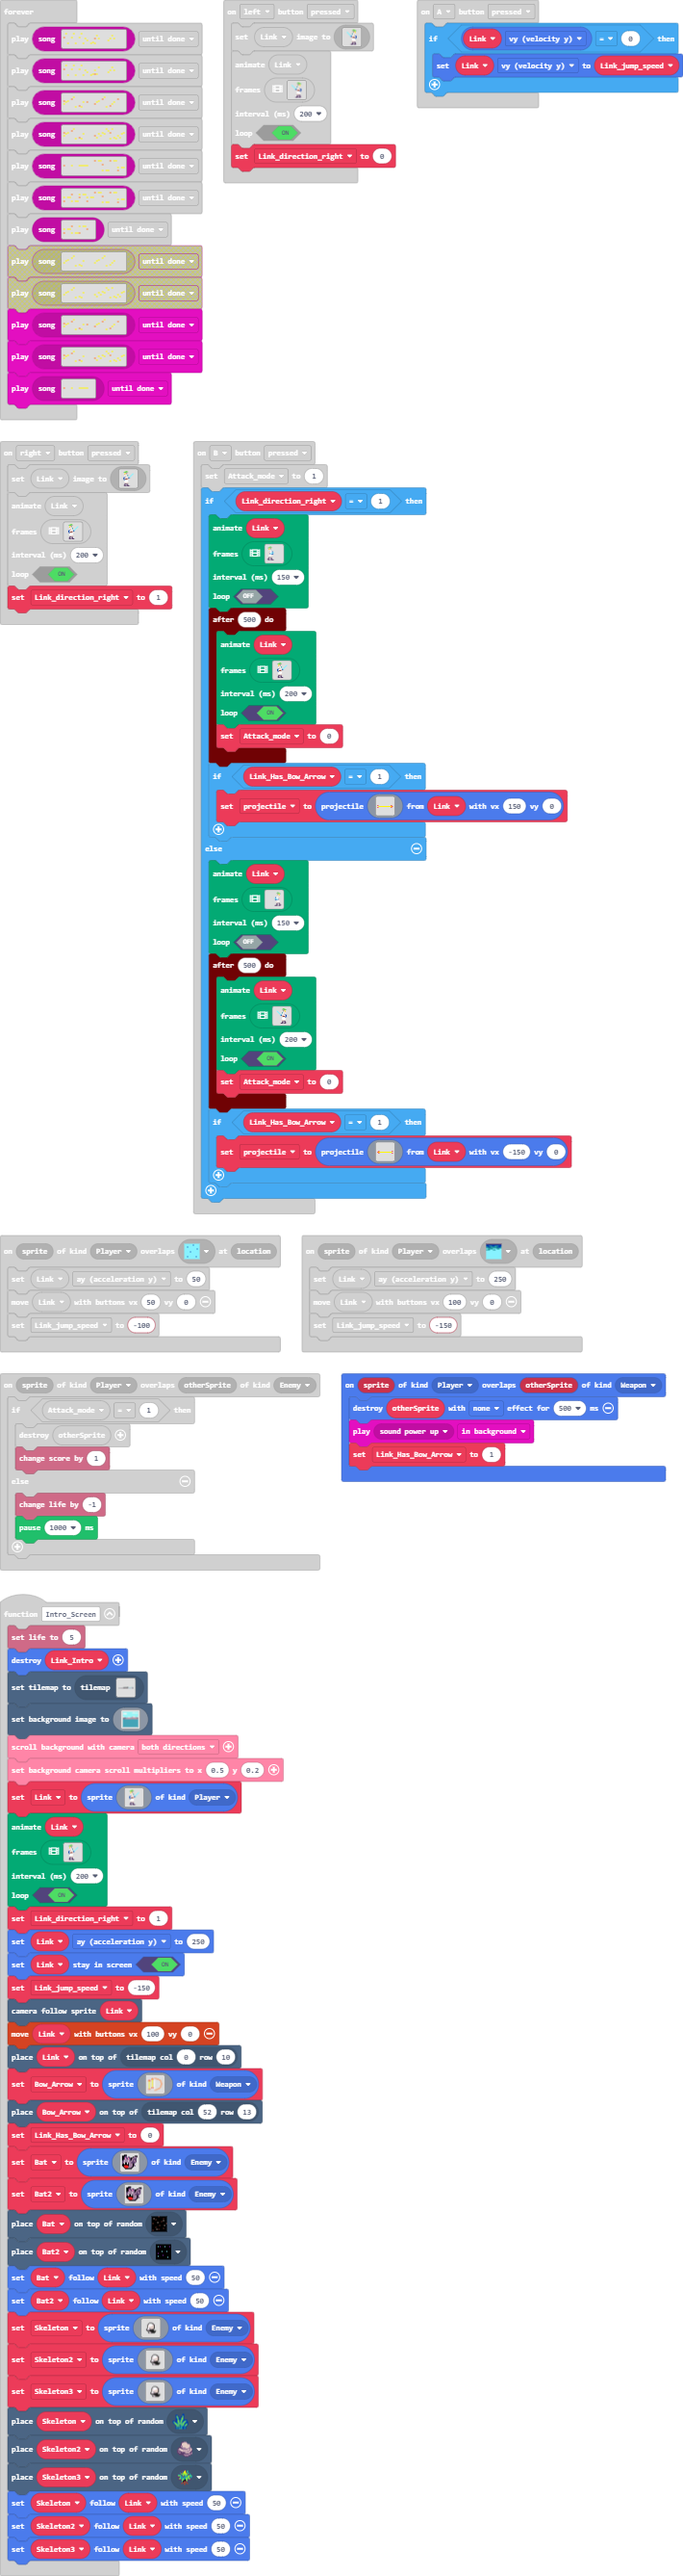
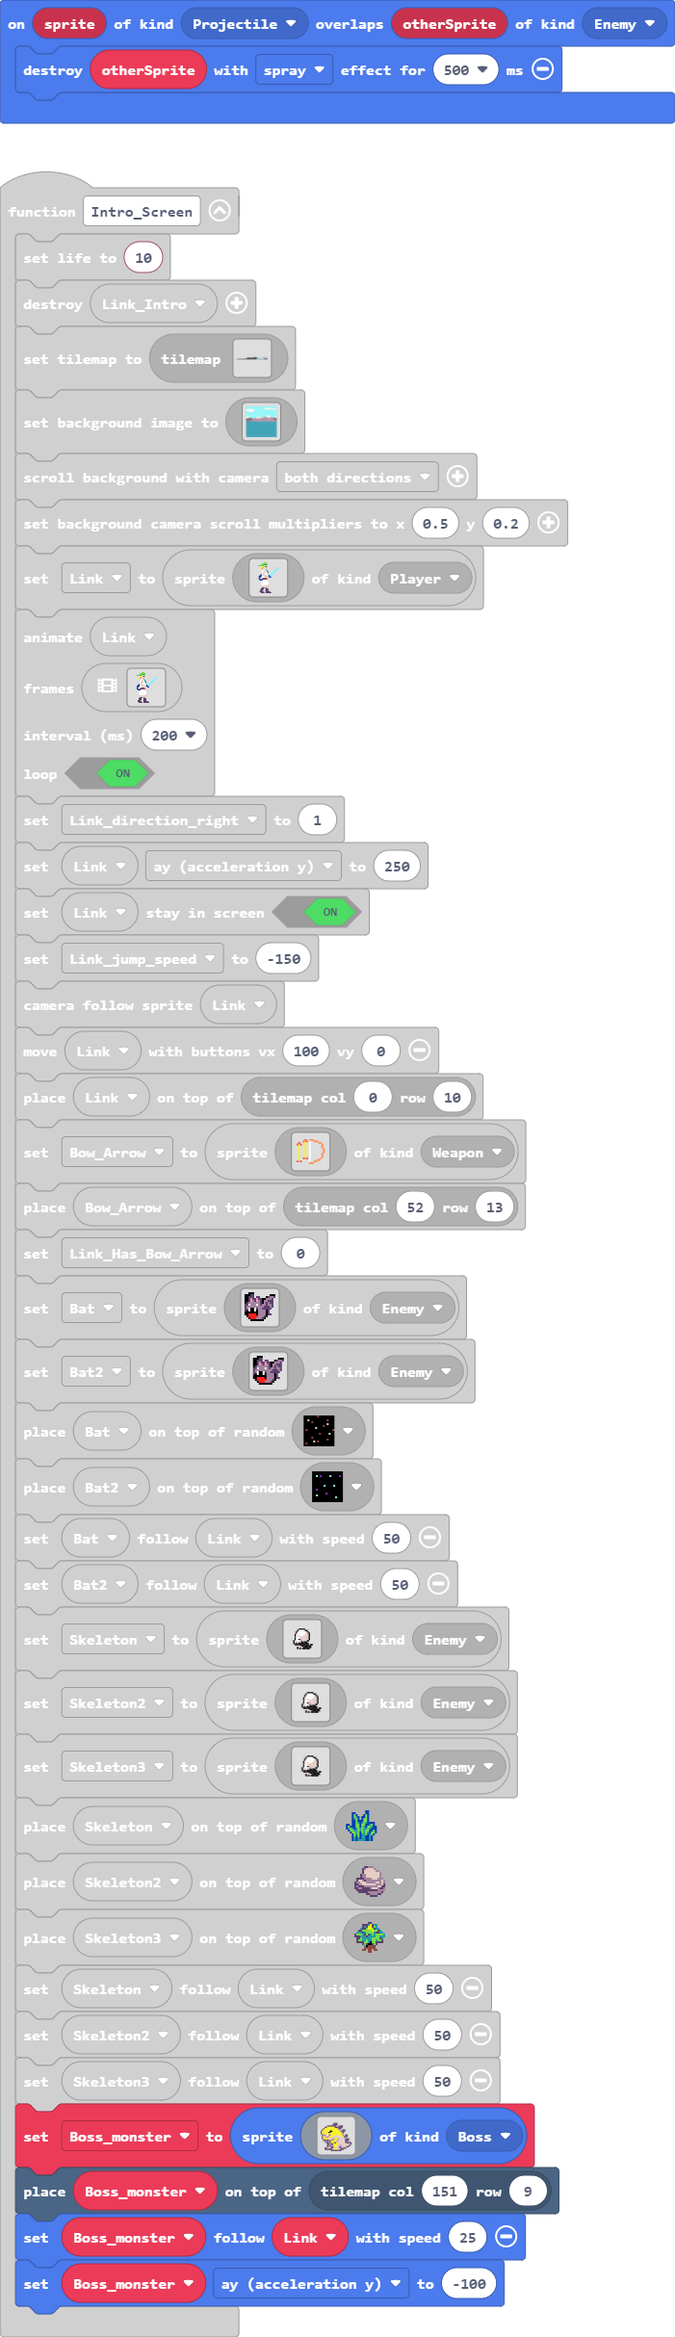
Update main.blocks, main.ts

diff --git a/main.ts b/main.ts
@@ -1,5 +1,6 @@
 namespace SpriteKind {
     export const Weapon = SpriteKind.create()
+    export const Boss = SpriteKind.create()
 }
 controller.B.onEvent(ControllerButtonEvent.Pressed, function () {
     Attack_mode = 1
@@ -98,7 +99,7 @@ controller.left.onEvent(ControllerButtonEvent.Pressed, function () {
     Link_direction_right = 0
 })
 function Intro_Screen () {
-    info.setLife(5)
+    info.setLife(10)
     sprites.destroy(Link_Intro)
     tiles.setCurrentTilemap(tilemap`level1`)
     scene.setBackgroundImage(img`
@@ -456,6 +457,35 @@ function Intro_Screen () {
     Skeleton.follow(Link, 50)
     Skeleton2.follow(Link, 50)
     Skeleton3.follow(Link, 50)
+    Boss_monster = sprites.create(img`
+        ........................
+        ........................
+        ..........ccc...........
+        .........cccc...........
+        .....ccccccc..ccc.......
+        ...cc555555cccccc.......
+        ..c5555555555bcc........
+        .c555555555555b..cc.....
+        c555551ff555555bccc.....
+        c55d55ff55555555bc......
+        c5555555555555555b......
+        .cbb31bb5555dd555b.cc...
+        .c5333b555ddddd55dccc...
+        .c533b55ddddddddddb.....
+        .c5555dddbb55bdddddccc..
+        ..ccccbbbb555bdddddccc..
+        ...cdcbc5555bddddddcc...
+        ....ccbc55bc5ddddddbcccc
+        .....cbbcc5555dddddddddc
+        .....ccbbb555ddbddddddc.
+        .....cdcbc55ddbbbdddcc..
+        ...ccdddccddddbcbbcc....
+        ...ccccccd555ddccc......
+        ........cccccccc........
+        `, SpriteKind.Boss)
+    tiles.placeOnTile(Boss_monster, tiles.getTileLocation(151, 9))
+    Boss_monster.follow(Link, 25)
+    Boss_monster.ay = -100
 }
 controller.right.onEvent(ControllerButtonEvent.Pressed, function () {
     Link.setImage(img`
@@ -510,6 +540,9 @@ sprites.onOverlap(SpriteKind.Player, SpriteKind.Weapon, function (sprite, otherS
     music.play(music.melodyPlayable(music.powerUp), music.PlaybackMode.InBackground)
     Link_Has_Bow_Arrow = 1
 })
+sprites.onOverlap(SpriteKind.Projectile, SpriteKind.Enemy, function (sprite, otherSprite) {
+    sprites.destroy(otherSprite, effects.spray, 500)
+})
 sprites.onOverlap(SpriteKind.Player, SpriteKind.Enemy, function (sprite, otherSprite) {
     if (Attack_mode == 1) {
         sprites.destroy(otherSprite)
@@ -519,6 +552,7 @@ sprites.onOverlap(SpriteKind.Player, SpriteKind.Enemy, function (sprite, otherSp
         pause(1000)
     }
 })
+let Boss_monster: Sprite = null
 let Skeleton3: Sprite = null
 let Skeleton2: Sprite = null
 let Skeleton: Sprite = null
